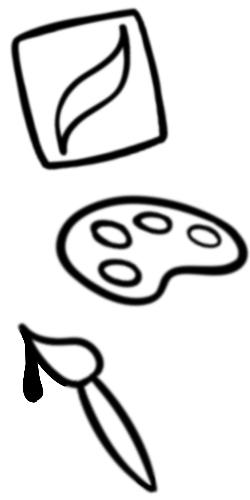
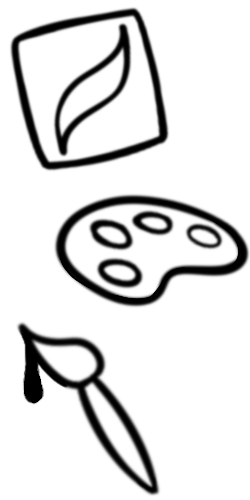
more images added and image changes

diff --git a/lib/data.ts b/lib/data.ts
@@ -1,4 +1,4 @@
-export type TabId = "experiences" | "software" | "art";
+export type TabId = "experiences" | "projects" | "art";
 
 export interface SoftwareImage {
   id: string;
@@ -13,7 +13,7 @@ export interface SoftwareProject {
   title: string;
   description: string;
   tags: string[];
-  doodle: SoftwareImage;
+  heroFileName: string;
   screenshots: SoftwareImage[];
 }
 
@@ -87,7 +87,7 @@ export const siteData: SiteData = {
   },
   tabs: [
     { id: "experiences", label: "Experiences" },
-    { id: "software", label: "Projects" },
+    { id: "projects", label: "Projects" },
     { id: "art", label: "Art Gallery" },
   ],
   art: {
@@ -131,12 +131,7 @@ export const siteData: SiteData = {
       description:
         "A high-performance in-memory caching system with LRU eviction policy and consistent hashing for horizontal scaling. Built for near-zero latency reads under heavy concurrent load.",
       tags: ["Rust", "Distributed Systems", "Networking"],
-      doodle: {
-        id: "distributed-cache-engine-hero",
-        fileName: "distributed-cache-engine-hero.jpg",
-        alt: "Hero graphic for the distributed cache engine",
-        title: "Distributed Cache Engine",
-      },
+      heroFileName: "portfolio_form-mcp.png",
       screenshots: [
         {
           id: "distributed-cache-engine-1",
@@ -165,12 +160,7 @@ export const siteData: SiteData = {
       description:
         "Real-time artistic style transfer using convolutional neural networks. Supports live webcam input and exports styled video frames at 24fps with configurable style strength.",
       tags: ["Python", "PyTorch", "OpenCV"],
-      doodle: {
-        id: "neural-style-transfer-hero",
-        fileName: "neural-style-transfer.png",
-        alt: "Hero graphic for the neural style transfer tool",
-        title: "Neural Style Transfer",
-      },
+      heroFileName: "neural-style-transfer.png",
       screenshots: [
         {
           id: "neural-style-transfer-1",

diff --git a/components/ProjectRow.tsx b/components/ProjectRow.tsx
@@ -40,13 +40,13 @@ export default function ProjectRow({ project }: ProjectRowProps) {
         </div>
 
         {/* Static project image — not clickable, no modal. */}
-        <div className="relative mx-auto h-67.5 w-67.5 shrink-0 overflow-hidden rounded-lg bg-neutral-300 dark:bg-neutral-700 lg:mx-0 lg:h-125 lg:w-125">
+        <div className="relative mx-auto h-67.5 w-67.5 shrink-0 overflow-hidden rounded-lg lg:mx-0 lg:h-100 lg:w-100">
           <Image
-            src={`/projects/${project.id}/${project.doodle.fileName}`}
-            alt={project.doodle.alt}
+            src={`/projects/${project.id}/${project.heroFileName}`}
+            alt={`Hero image for ${project.title}`}
             fill
             sizes="(min-width: 640px) 500px, 270px"
-            className="object-cover"
+            className="object-cover dark:invert-100"
           />
         </div>
       </div>

diff --git a/app/layout.tsx b/app/layout.tsx
@@ -26,7 +26,7 @@ export default function RootLayout({ children }: LayoutProps<"/">) {
             <TabsNav tabs={siteData.tabs} />
           </div>
         </div>
-        <main className="flex-1">{children}</main>
+        <main className="flex-1 bg-neutral-200 dark:bg-neutral-800">{children}</main>
         <Footer footer={siteData.footer} />
       </body>
     </html>
